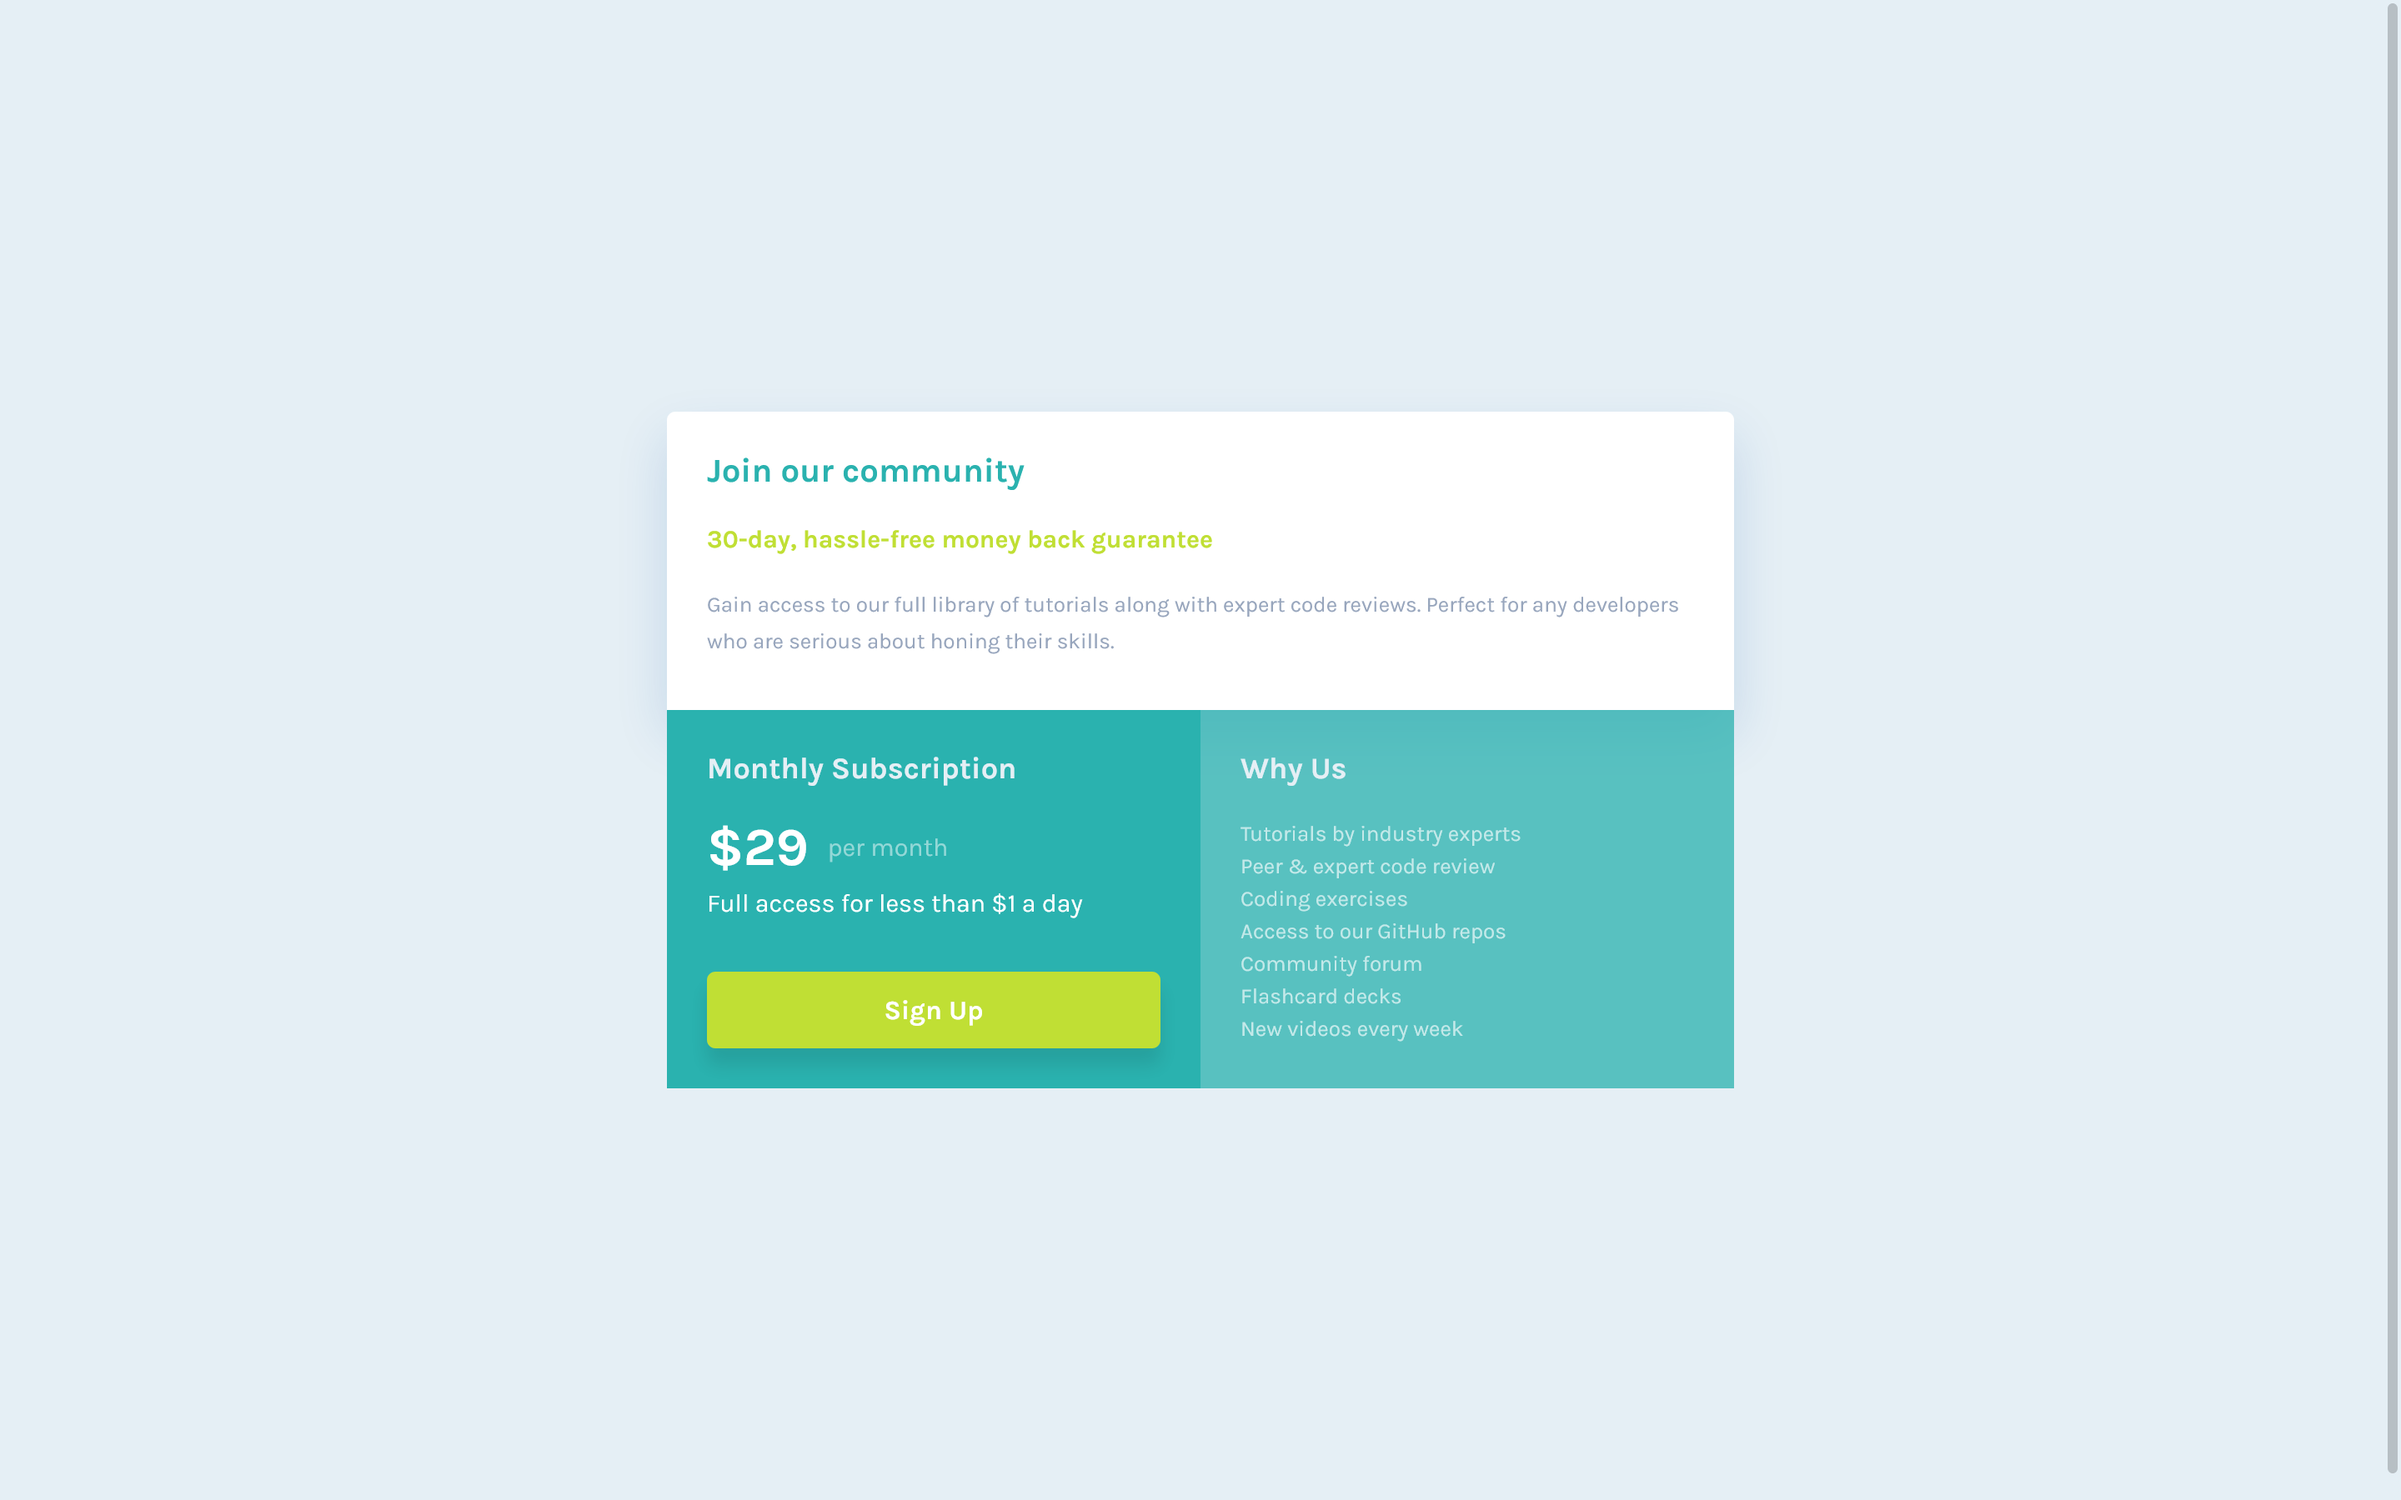
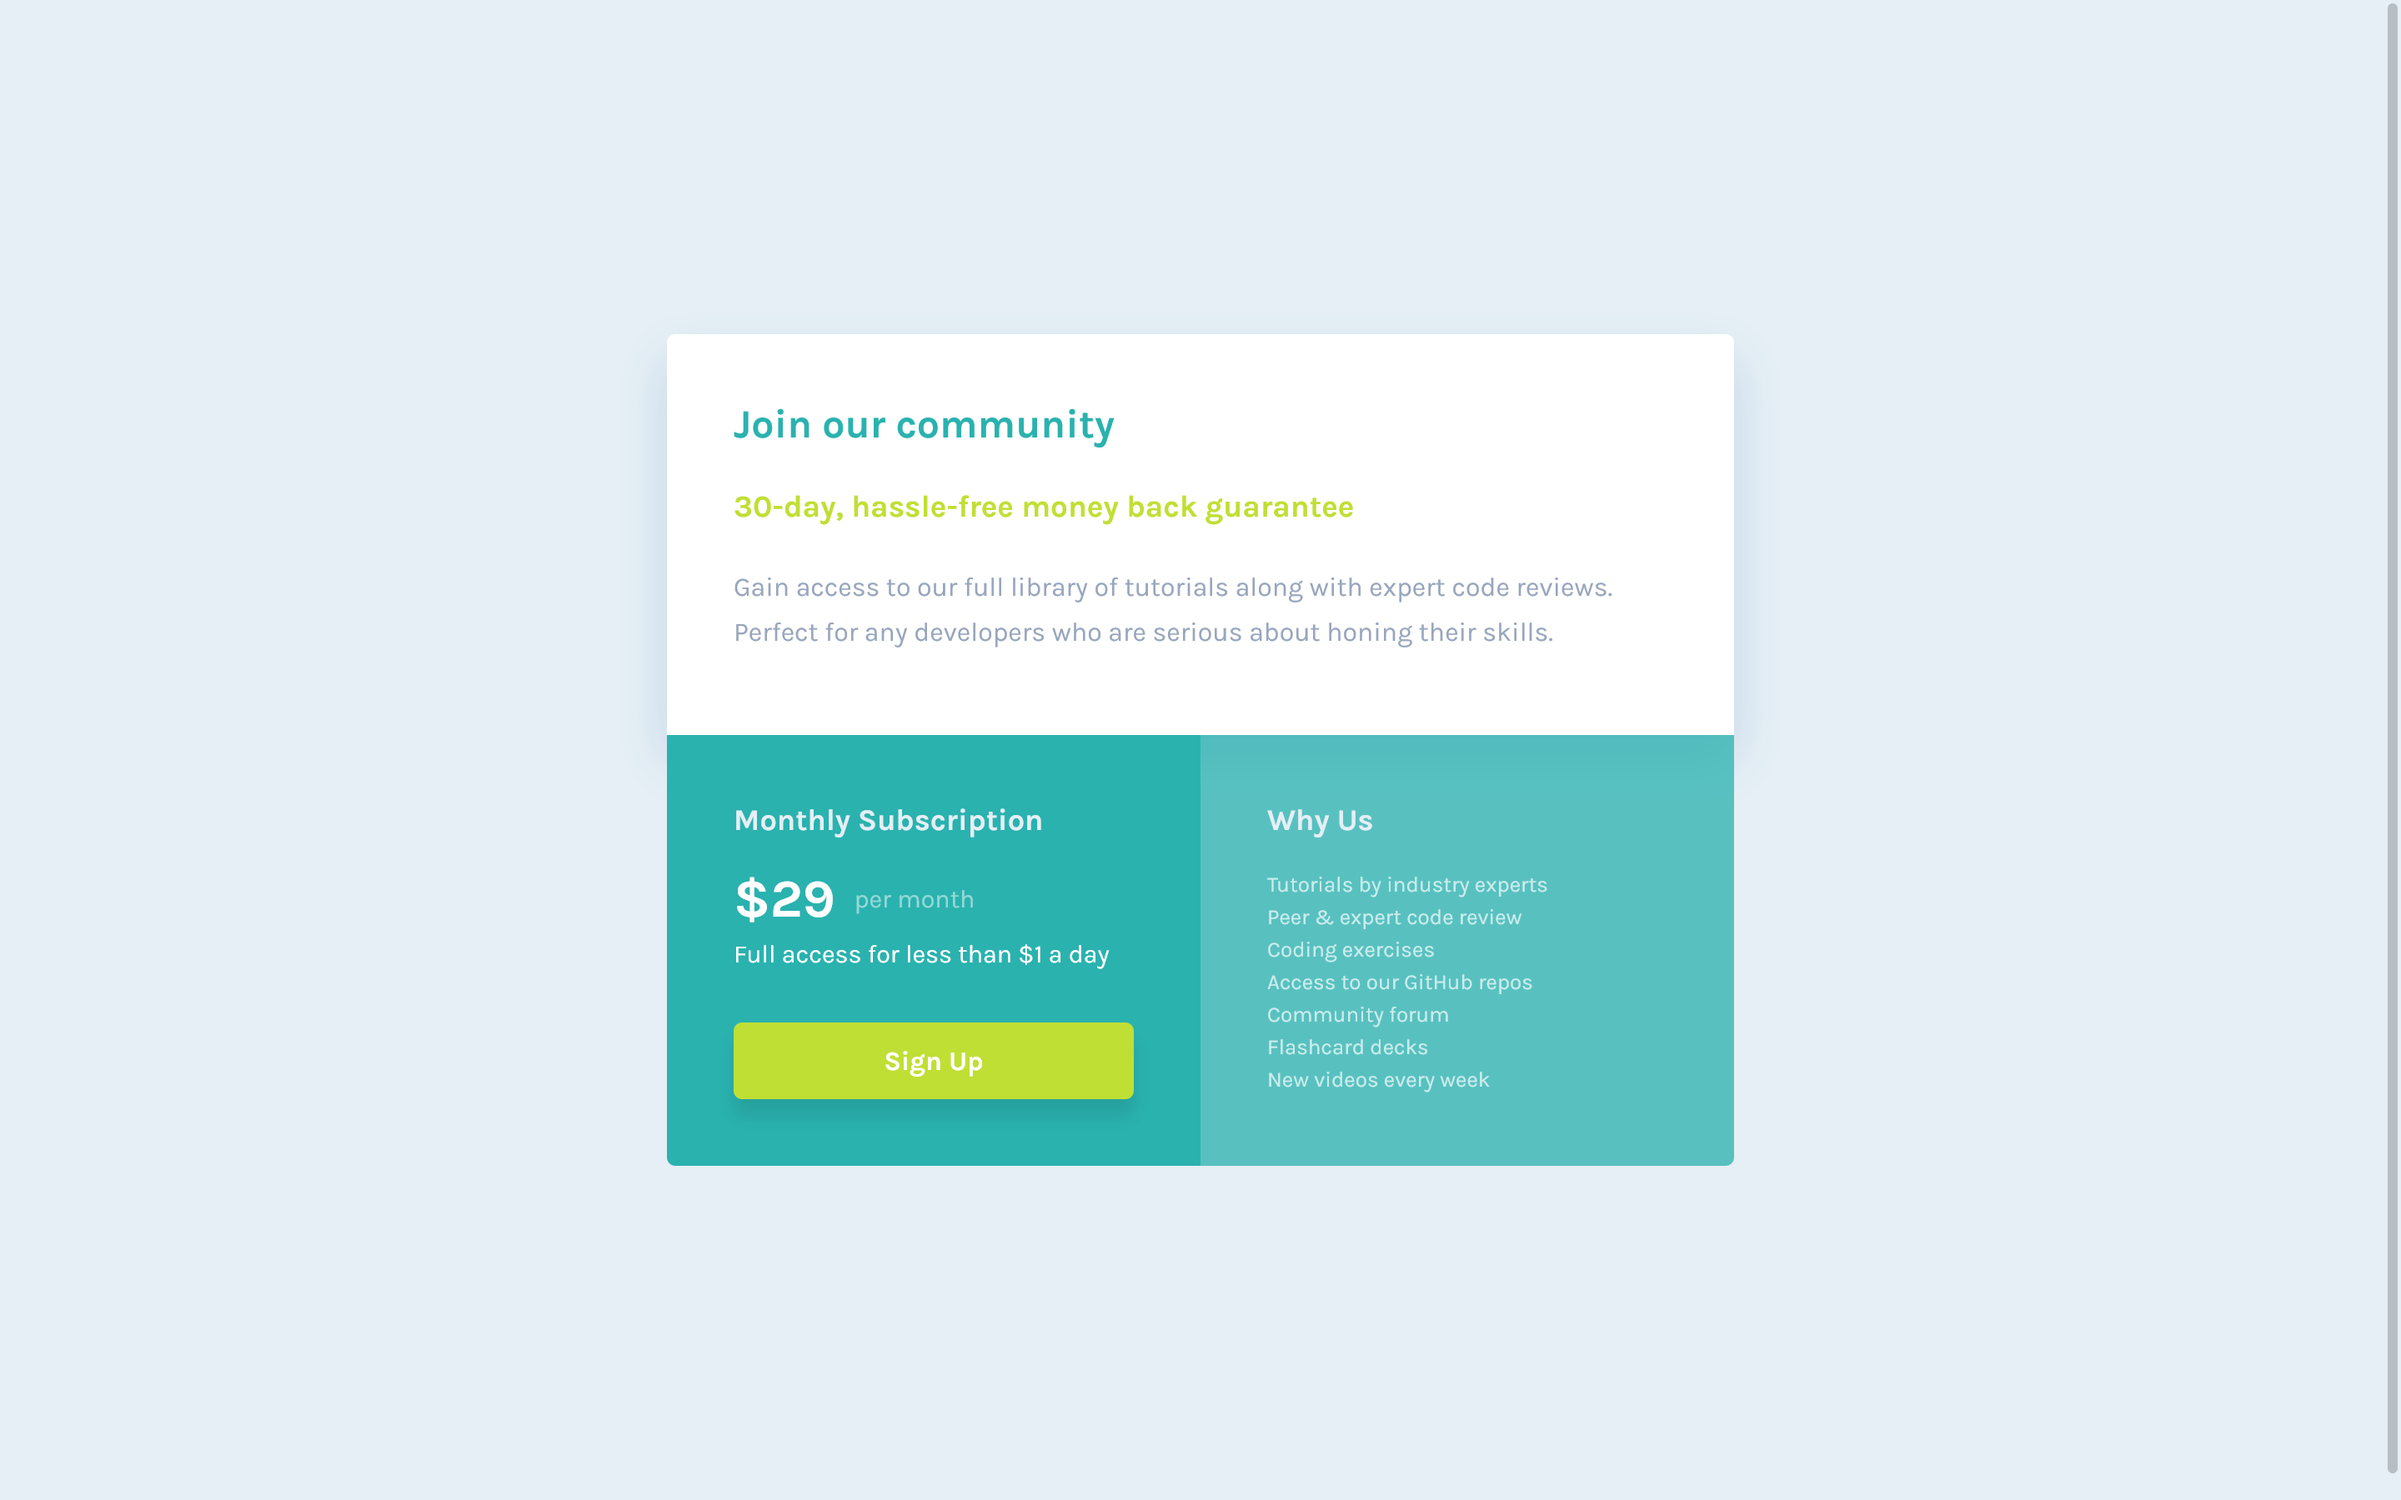
fixed responsive details desktop view

Changed region(s): [[0.25, 0.4667, 0.75, 0.7778], [0.2812, 0.2178, 0.7188, 0.4356]]

diff --git a/styles.css b/styles.css
@@ -112,17 +112,6 @@ main .component {
     flex-direction: column;
 }
 
-@media only screen and (min-width: 550px) {
-    .more-info-wrapper {
-        flex-direction: row;
-    }
-
-    .subscription-section,
-    .why-us-section {
-        flex-basis: 50%;
-    }
-}
-
 .subscription-section {
     background-color: var(--clr-primary-cyan);
     color: var(--clr-white);
@@ -153,6 +142,7 @@ main .component {
 
 .why-us-section {
     background-color: hsla(179, 62%, 43%, 0.75);
+    border-radius: 0 0 var(--border-radius) var(--border-radius);
 }
 
 .why-us-section ul {
@@ -163,7 +153,7 @@ main .component {
     color: var(--clr-white);
     font-size: 0.8125em;
     line-height: 1.5em;
-    opacity: 0.65;
+    opacity: 0.7;
 }
 
 .attribution {
@@ -172,4 +162,39 @@ main .component {
 }
 .attribution a {
     color: hsl(228, 45%, 44%);
+}
+
+@media only screen and (min-width: 550px) {
+    .padding-alround {
+        padding: 2.5em;
+    }
+
+    h1 {
+        font-size: 1.5em;
+    }
+
+    h3 {
+        font-size: 1.15em;
+    }
+
+    .join-community-section p {
+        font-size: 1em;
+    }
+
+    .more-info-wrapper {
+        flex-direction: row;
+    }
+
+    .subscription-section,
+    .why-us-section {
+        flex-basis: 50%;
+    }
+
+    .subscription-section {
+        border-radius: 0 0 0 var(--border-radius);
+    }
+
+    .why-us-section {
+        border-radius: 0 0 var(--border-radius) 0;
+    }
 }
